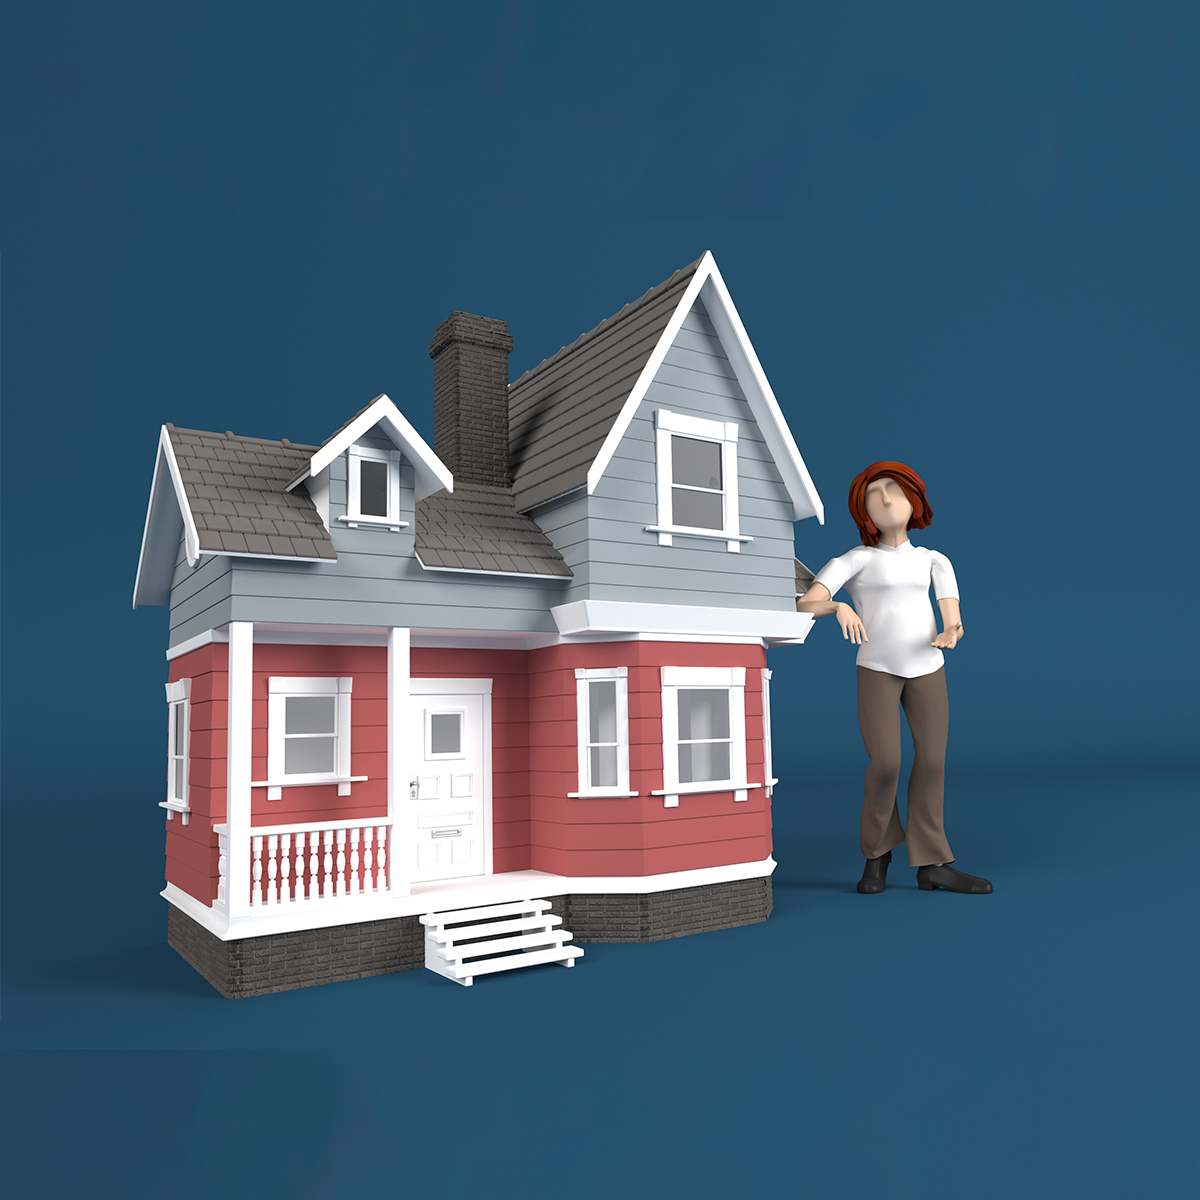
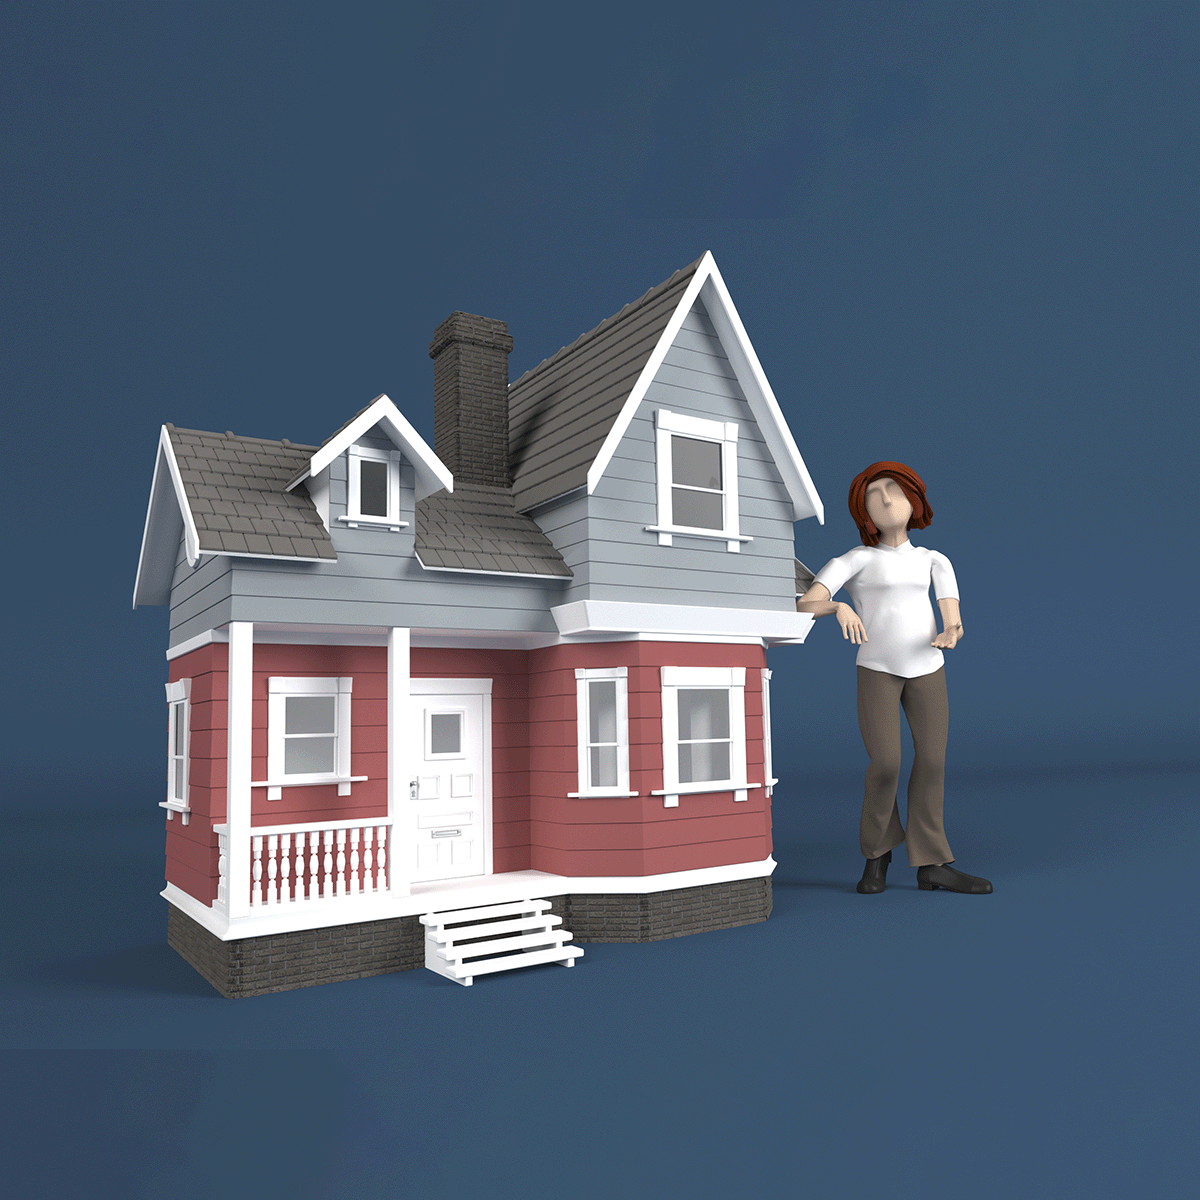
feat: redesign home & about 3D showcase section

diff --git a/src/pages/Home/Home.jsx b/src/pages/Home/Home.jsx
@@ -24,7 +24,9 @@ import { supabase } from "../../lib/supabaseClient";
 import { PROJECTS_DATA as fallbackProjects } from "../../data/projects";
 import styles from "./Home.module.css";
 
+
 const HOUSE_3D_IMAGE = "assets/home/3d-house.png";
+
 
 const highlightItems = [
   {
@@ -48,6 +50,7 @@ const highlightItems = [
     subtitle: "Concept to Turnkey Execution",
   },
 ];
+
 
 const PROCESS_STEPS = [
   {
@@ -76,11 +79,12 @@ const PROCESS_STEPS = [
   },
 ];
 
+
 const Home = () => {
   const [projects, setProjects] = useState([]);
   const [loadingProjects, setLoadingProjects] = useState(true);
   const [selectedProject, setSelectedProject] = useState(null);
-  
+
   const splitSectionRef = useRef(null);
   const isLockedRef = useRef(false);
 
@@ -106,69 +110,58 @@ const Home = () => {
     );
     animatedElements.forEach((el) => observer.observe(el));
 
-    // 2. Single-Scroll Lock from Hero to 3D Showcase
-    const scrollToTarget = (targetTop) => {
-      isLockedRef.current = true;
-      window.scrollTo({
-        top: targetTop,
-        behavior: "smooth",
-      });
+    // 2. Single-Scroll Lock from Hero to 3D Showcase — DESKTOP ONLY.
+    // Touch/coarse-pointer devices (phones, tablets) skip this entirely so
+    // native momentum scrolling is never interrupted by a non-passive
+    // touchmove handler or a forced window.scrollTo(). This was the cause
+    // of the mobile scroll lag from the hero into the page below.
+    const isTouchDevice =
+      (typeof window.matchMedia === "function" &&
+        window.matchMedia("(pointer: coarse)").matches) ||
+      "ontouchstart" in window;
 
-      setTimeout(() => {
-        isLockedRef.current = false;
-      }, 950);
-    };
+    let cleanupScrollLock = () => {};
 
-    const handleWheel = (e) => {
-      if (!splitSectionRef.current) return;
-      const currentScroll = window.scrollY || window.pageYOffset;
-      const splitTop = splitSectionRef.current.offsetTop;
+    if (!isTouchDevice) {
+      const scrollToTarget = (targetTop) => {
+        isLockedRef.current = true;
+        window.scrollTo({
+          top: targetTop,
+          behavior: "smooth",
+        });
 
-      if (currentScroll < splitTop - 30) {
-        if (e.deltaY > 0) {
+        setTimeout(() => {
+          isLockedRef.current = false;
+        }, 950);
+      };
+
+      const handleWheel = (e) => {
+        if (!splitSectionRef.current) return;
+        const currentScroll = window.scrollY || window.pageYOffset;
+        const splitTop = splitSectionRef.current.offsetTop;
+
+        if (currentScroll < splitTop - 30) {
+          if (e.deltaY > 0) {
+            e.preventDefault();
+            if (!isLockedRef.current) {
+              scrollToTarget(splitTop);
+            }
+          }
+        } else if (isLockedRef.current) {
           e.preventDefault();
-          if (!isLockedRef.current) {
-            scrollToTarget(splitTop);
-          }
         }
-      } else if (isLockedRef.current) {
-        e.preventDefault();
-      }
-    };
+      };
 
-    let touchStartY = 0;
-    const handleTouchStart = (e) => {
-      touchStartY = e.touches[0].clientY;
-    };
+      window.addEventListener("wheel", handleWheel, { passive: false });
 
-    const handleTouchMove = (e) => {
-      if (!splitSectionRef.current) return;
-      const currentScroll = window.scrollY || window.pageYOffset;
-      const splitTop = splitSectionRef.current.offsetTop;
-      const touchCurrentY = e.touches[0].clientY;
-      const diffY = touchStartY - touchCurrentY;
-
-      if (currentScroll < splitTop - 30) {
-        if (diffY > 15) {
-          if (e.cancelable) e.preventDefault();
-          if (!isLockedRef.current) {
-            scrollToTarget(splitTop);
-          }
-        }
-      } else if (isLockedRef.current) {
-        if (e.cancelable) e.preventDefault();
-      }
-    };
-
-    window.addEventListener("wheel", handleWheel, { passive: false });
-    window.addEventListener("touchstart", handleTouchStart, { passive: true });
-    window.addEventListener("touchmove", handleTouchMove, { passive: false });
+      cleanupScrollLock = () => {
+        window.removeEventListener("wheel", handleWheel);
+      };
+    }
 
     return () => {
       observer.disconnect();
-      window.removeEventListener("wheel", handleWheel);
-      window.removeEventListener("touchstart", handleTouchStart);
-      window.removeEventListener("touchmove", handleTouchMove);
+      cleanupScrollLock();
     };
   }, []);
 
@@ -268,15 +261,15 @@ const Home = () => {
       </section>
 
       {/* 2. FULL-SCREEN 50/50 SPLIT SHOWCASE (3 CORE SERVICES IN TYPOGRAPHY) */}
-      <section 
+      <section
         ref={splitSectionRef}
-        className={styles.fullBleedSplitSection} 
+        className={styles.fullBleedSplitSection}
         aria-label="Core Engineering Services and Architectural Visualization"
       >
         {/* Left Side: Pure 3D House Visual */}
         <div className={styles.splitHalfLeft}>
-          <div 
-            className={styles.splitBackground} 
+          <div
+            className={styles.splitBackground}
             style={{ backgroundImage: `url(${HOUSE_3D_IMAGE})` }}
           />
           <div className={styles.ambientGlowLeft} />
@@ -368,11 +361,11 @@ const Home = () => {
         {/* BENTO GRID */}
         <div className={styles.bentoGrid}>
           <div className={`${styles.bentoCard} ${styles.cardLarge}`}>
-            <img 
-              src="/logo.png" 
-              alt="" 
-              className={styles.cardWatermarkCenter} 
-              aria-hidden="true" 
+            <img
+              src="/logo.png"
+              alt=""
+              className={styles.cardWatermarkCenter}
+              aria-hidden="true"
             />
 
             <div className={styles.cardContentRelative}>
@@ -649,7 +642,7 @@ const Home = () => {
       />
 
       {/* MODULAR PROJECT POPUP DRAWER */}
-      <ProjectDrawer 
+      <ProjectDrawer
         isOpen={!!selectedProject}
         project={selectedProject}
         onClose={closeProjectModal}

diff --git a/src/pages/About/About.jsx b/src/pages/About/About.jsx
@@ -76,6 +76,28 @@ function About() {
     animatedElements.forEach((el) => observer.observe(el));
 
     // 2. Single-Scroll Lock Handler (Hero -> Showcase)
+    // `offsetTop` forces the browser to synchronously recompute layout the
+    // instant it's read. The old handlers read it on every single touchmove
+    // event, so every frame of a mobile scroll gesture paid for a layout
+    // recalculation before the browser could paint — that's the lag. We
+    // measure it once instead, and only re-measure when the layout could
+    // actually have changed.
+    let splitTop = 0;
+    const measureSplitTop = () => {
+      if (splitSectionRef.current) {
+        splitTop = splitSectionRef.current.offsetTop;
+      }
+    };
+    measureSplitTop();
+
+    let resizeTimeout;
+    const handleResize = () => {
+      clearTimeout(resizeTimeout);
+      resizeTimeout = setTimeout(measureSplitTop, 150);
+    };
+    window.addEventListener("resize", handleResize);
+    window.addEventListener("load", measureSplitTop);
+
     const scrollToTarget = (targetTop) => {
       isLockedRef.current = true;
       window.scrollTo({
@@ -90,9 +112,7 @@ function About() {
 
     // Desktop Wheel Event Handler
     const handleWheel = (e) => {
-      if (!splitSectionRef.current) return;
       const currentScroll = window.scrollY || window.pageYOffset;
-      const splitTop = splitSectionRef.current.offsetTop;
 
       if (currentScroll < splitTop - 30) {
         if (e.deltaY > 0) {
@@ -113,21 +133,25 @@ function About() {
     };
 
     const handleTouchMove = (e) => {
-      if (!splitSectionRef.current) return;
       const currentScroll = window.scrollY || window.pageYOffset;
-      const splitTop = splitSectionRef.current.offsetTop;
+
+      // Past the hero and not mid-lock: bail out before doing ANY work so the
+      // browser's native, GPU-driven touch scrolling takes over completely —
+      // this is what fixes scrolling from the hero down through the rest of
+      // the page.
+      if (currentScroll >= splitTop - 30 && !isLockedRef.current) return;
+
+      if (isLockedRef.current) {
+        if (e.cancelable) e.preventDefault();
+        return;
+      }
+
       const touchCurrentY = e.touches[0].clientY;
       const diffY = touchStartY - touchCurrentY;
 
-      if (currentScroll < splitTop - 30) {
-        if (diffY > 15) {
-          if (e.cancelable) e.preventDefault();
-          if (!isLockedRef.current) {
-            scrollToTarget(splitTop);
-          }
-        }
-      } else if (isLockedRef.current) {
+      if (diffY > 15) {
         if (e.cancelable) e.preventDefault();
+        scrollToTarget(splitTop);
       }
     };
 
@@ -140,6 +164,9 @@ function About() {
       window.removeEventListener("wheel", handleWheel);
       window.removeEventListener("touchstart", handleTouchStart);
       window.removeEventListener("touchmove", handleTouchMove);
+      window.removeEventListener("resize", handleResize);
+      window.removeEventListener("load", measureSplitTop);
+      clearTimeout(resizeTimeout);
     };
   }, []);
 
